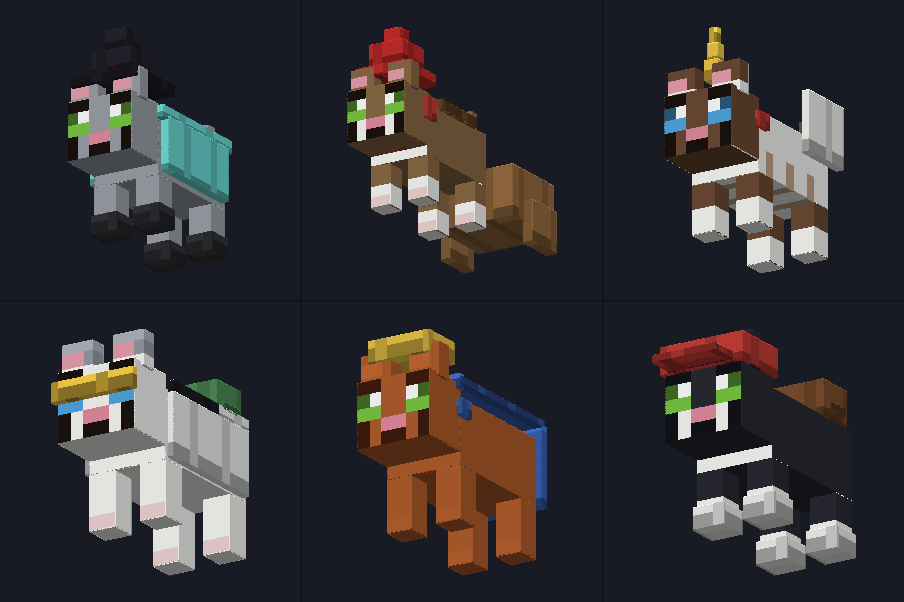
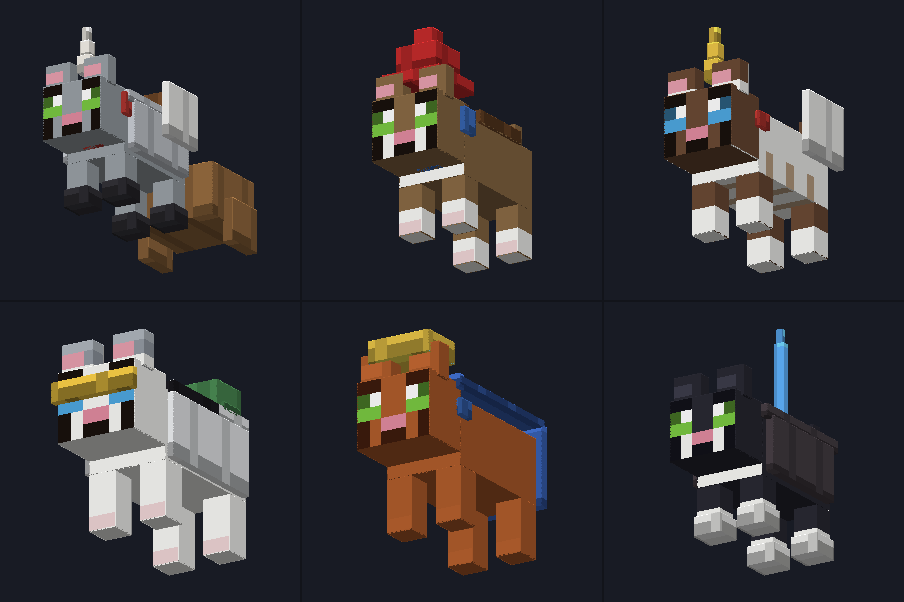
Plaggbilden visar sex roller, en av dem fullt utrustad
02-tillbehor.png visade sex katter med tre plagg var, utan att någon bar hela
kittet — och 04-bilden visar hela kittet på allihop, vilket döljer pälsarna
och säger inget om vad plaggen är TILL FÖR. Den här kombinationen gör båda
sakerna i en bild:

  Misty   hela kittet — rustning, horn, vingar, halsduk, ryggsäck, tossor, vagn
  Hazel   sadel, tomteluva, halsduk        (riddjuret)
  Mocha   horn, vingar, halsband           (enhörningskatten)
  Snow    doktorsrock, glasögon, ryggsäck  (doktorn)
  Ginger  krona, mantel, halsband          (kungligheten)
  Domino  netheritrustning, energisvärd, tossor  (krigaren)

Energisvärdet syns för första gången i en butiksbild trots att det kom i
3.13.0.

Changed region(s): [[0.3717, 0.0299, 0.6195, 0.4485], [0.7124, 0.5382, 0.9602, 0.9568], [0.031, 0.0299, 0.3097, 0.4485]]

diff --git a/render_preview.py b/render_preview.py
@@ -152,14 +152,16 @@ if __name__=="__main__":
     # 1) alla katterna — tre i bredd så sex ryms utan att rutorna krymper
     W,H,img=sheet([render3d(c,[],PW,PH) for c in CATS],3,PW,PH)
     write_png(f"{OUT}/01-katterna.png",W,H,img); print("01-katterna.png")
-    # 2) tillbehör
-    # visa upp bredden: varje katt bär flera plagg, inklusive de nya
-    looks=[("misty",["rustning3","haxhatt1","tossor2"]),          # diamantrustning + häxhatt
-           ("hazel",["sadel1","tomteluva1","halsduk1","vagn1"]),   # tomteluva + vagn
-           ("mocha",["horn2","vingar1","halsband1"]),              # ENHÖRNINGSKATTEN
-           ("snow",["doktorsrock1","glasogon2","ryggsack2"]),      # doktorn
-           ("ginger",["mantel2","krona1","halsband2"]),            # kungligheten
-           ("domino",["keps2","tossor1","ryggsack1"])]             # bäraren
+    # 2) tillbehör: sex ROLLER, inte sex slumpvisa plaggkombinationer, och en
+    #    av dem fullt utrustad så bredden syns i samma bild som variationen.
+    #    Alla sex bär olika saker — den som bara visar hela kittet på allihop
+    #    döljer pälsarna och säger inget om vad plaggen är till för.
+    looks=[("misty",  ["rustning1","horn1","vingar1","halsduk1","ryggsack1","tossor2","vagn1"]),  # FULLT UTRUSTAD
+           ("hazel",  ["sadel1","tomteluva1","halsduk2"]),        # riddjuret
+           ("mocha",  ["horn2","vingar1","halsband1"]),           # enhörningskatten
+           ("snow",   ["doktorsrock1","glasogon2","ryggsack2"]),  # doktorn
+           ("ginger", ["krona1","mantel2","halsband2"]),          # kungligheten
+           ("domino", ["rustning4","energisvard1","tossor1"])]    # krigaren med bladet
     W,H,img=sheet([render3d(c,a,PW,PH) for c,a in looks],3,PW,PH)
     write_png(f"{OUT}/02-tillbehor.png",W,H,img); print("02-tillbehor.png")
     # 3) en fullt utrustad katt, stor
